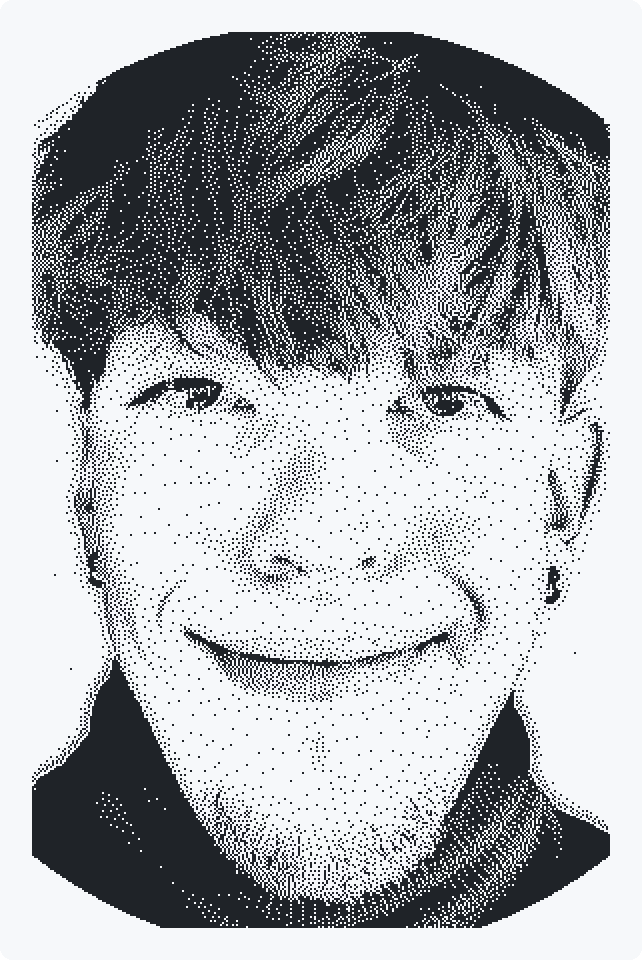
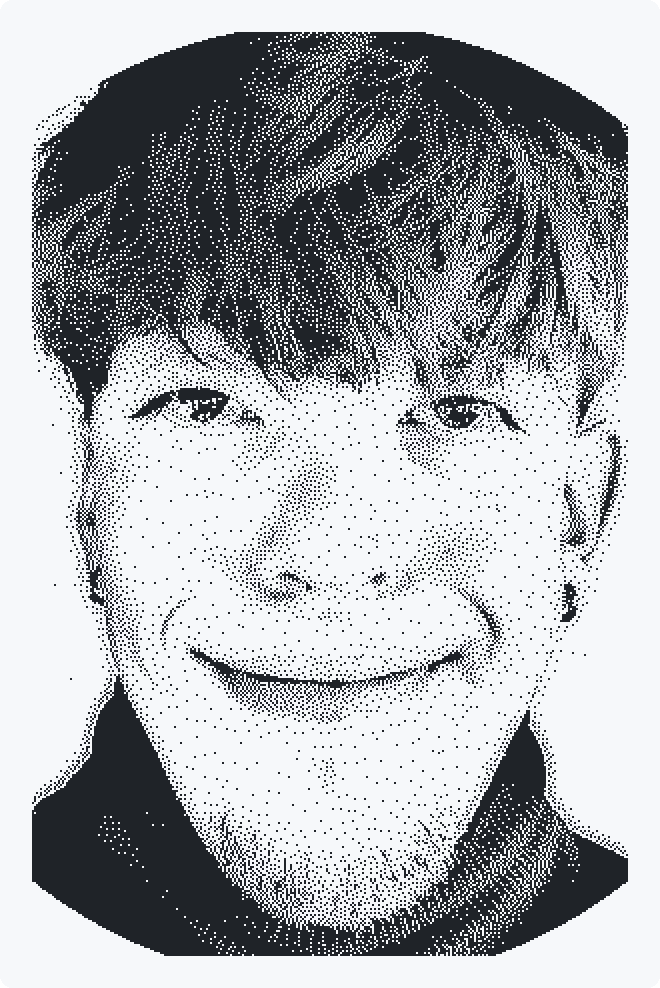
Contorno al bloque de info

diff --git a/README.md b/README.md
@@ -1,8 +1,10 @@
 <picture>
   <source media="(prefers-color-scheme: dark)" srcset="assets/portrait-dark.png">
   <source media="(prefers-color-scheme: light)" srcset="assets/portrait-light.png">
-  <img align="right" src="assets/portrait-light.png" width="321" alt="Retrato de Tomás Monge en arte de puntos">
+  <img align="right" src="assets/portrait-light.png" width="330" alt="Retrato de Tomás Monge en arte de puntos">
 </picture>
+
+<table><tr><td>
 
 ```yaml
 # tenerexblatta@github:~$ cat about.yml
@@ -33,6 +35,8 @@ links:
 
 
 ```
+
+</td></tr></table>
 
 <br clear="right">
 
